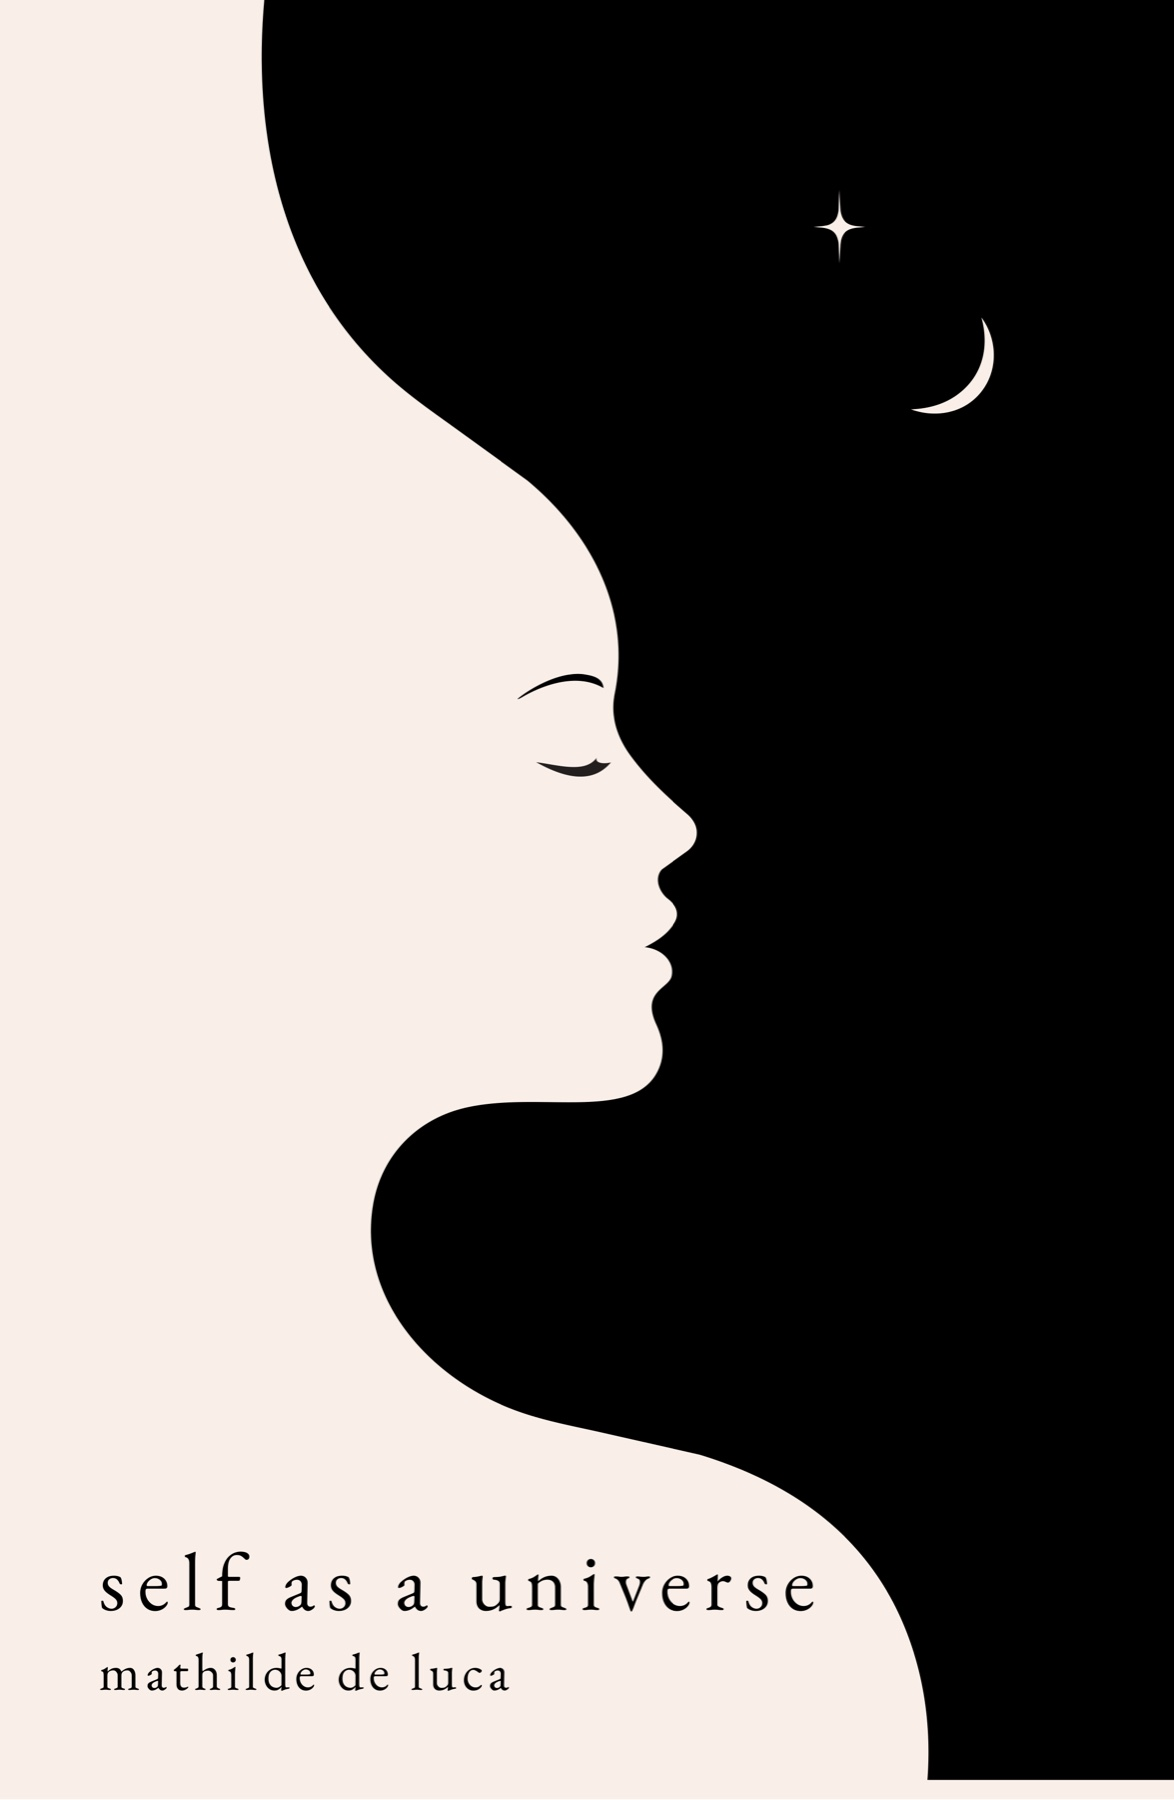
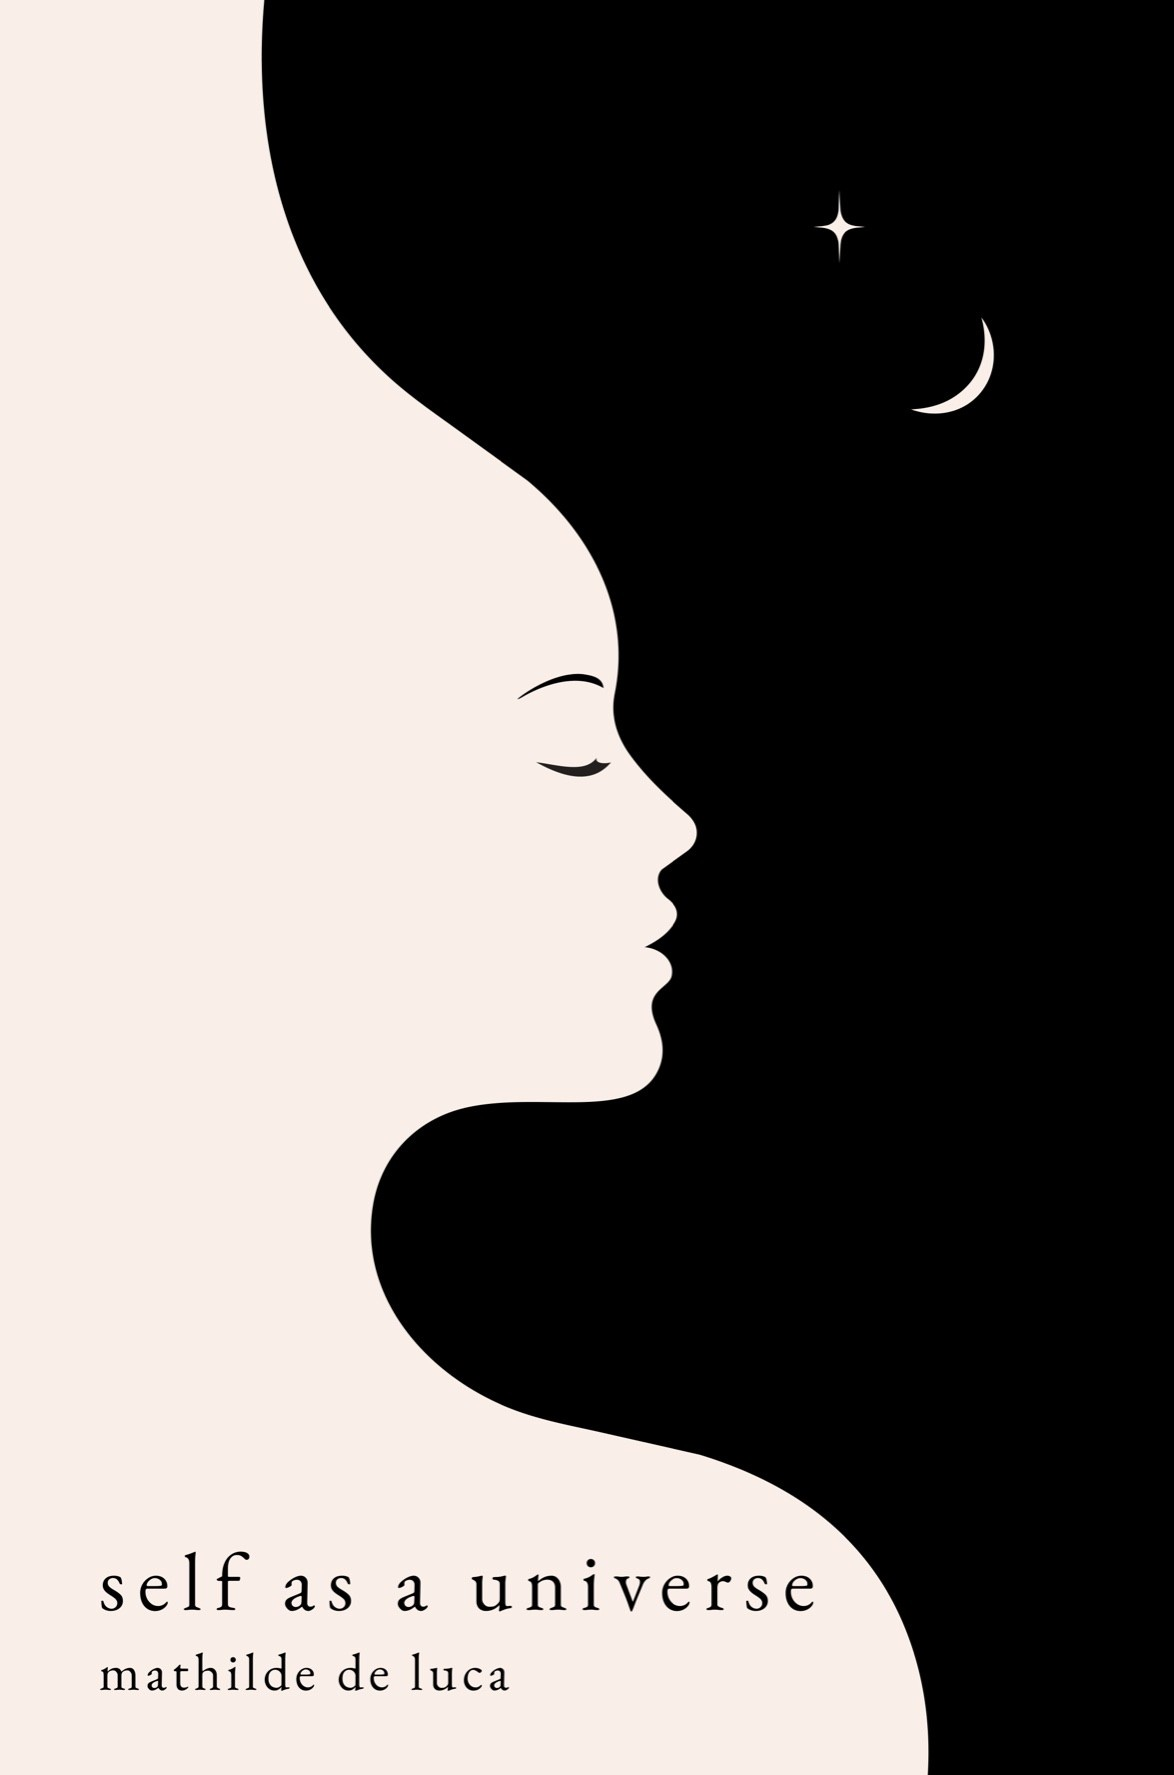
Corrections : menu (+), couverture (bande beige retiree), cartes agrandies, textes podcast/offerings/ateliers/sessions reformules, lien Amazon sur le titre, photo mobile fluide

diff --git a/index.html b/index.html
@@ -72,7 +72,7 @@
       "name": "Inner Exploration",
       "author": { "@id": "#mathilde" },
       "inLanguage": "en",
-      "description": "A podcast for those who question, explore, and wonder about what it means to be human. Philosophy meets everyday life.",
+      "description": "Philosophy meets everyday life. Conversations and guided immersions on consciousness, conditioning, freedom and identity.",
       "url": "https://mathildedeluca.substack.com/podcast",
       "sameAs": [
         "https://open.spotify.com/show/0341kXHlxtj29iFHy69TCA",
@@ -114,7 +114,7 @@
   <a href="#podcast">Podcast</a>
   <a href="#rencontres">Offerings</a>
   <a href="#a-propos">About</a>
-  <button class="menu-btn" type="button" aria-label="More pages" aria-expanded="false" aria-controls="menu"><svg width="22" height="14" viewBox="0 0 22 14" fill="none" stroke="currentColor" stroke-width="1.4" stroke-linecap="round" aria-hidden="true"><path d="M1 1.5h20M1 7h20M1 12.5h20"/></svg></button>
+  <button class="menu-btn" type="button" aria-label="More" aria-expanded="false" aria-controls="menu">+</button>
   <div class="menu" id="menu">
     <a href="essays.html">All essays</a>
     <a href="poems.html">Poems</a>
@@ -134,7 +134,7 @@
   <!-- BOOK -->
   <section id="livre">
     <span class="label fade">The book</span>
-    <h2 class="big fade" translate="no">self as a universe</h2>
+    <h2 class="big fade" translate="no"><a href="https://a.co/d/0fFWXzAd" target="_blank" rel="noopener" class="title-link">self as a universe</a></h2>
     <p class="lead fade">What if the universe you've been searching for was already inside you?</p>
     <div class="bookphoto fade"><img src="images/self-as-a-universe-mathilde-de-luca.jpg" alt="Cover of self as a universe by Mathilde De Luca"></div>
     <p class="fade">A collection of poetry and reflections where the personal becomes universal, <em>self as a universe</em> explores identity, conditioning, consciousness, love, and the journey back to yourself.</p>
@@ -176,7 +176,7 @@
   <section id="podcast">
     <span class="label fade">Inner Exploration</span>
     <h2 class="big fade">The podcast</h2>
-    <p class="fade">A podcast for those who question, explore, and wonder about what it means to be human. Here, philosophy meets everyday life. Together we explore what we believe, how we love, what freedom really means, and who we are. Some episodes are reflections and others are immersions.</p>
+    <p class="fade">Here, philosophy meets everyday life. Together we explore what we believe, how we love, what freedom really means, and who we are. Some episodes are reflections, others are guided immersions.</p>
     <div class="btns fade">
       <a class="btn solid" href="https://open.spotify.com/show/0341kXHlxtj29iFHy69TCA?si=y1Ap1OS9QTCZC8z6Tt5Npw&utm_source=copy-link" target="_blank" rel="noopener"><svg class="ico" viewBox="0 0 24 24" width="18" height="18" fill="currentColor" aria-hidden="true"><path d="M12 0C5.4 0 0 5.4 0 12s5.4 12 12 12 12-5.4 12-12S18.66 0 12 0zm5.52 17.34c-.24.36-.66.48-1.02.24-2.82-1.74-6.36-2.1-10.56-1.14-.42.12-.78-.18-.9-.54-.12-.42.18-.78.54-.9 4.56-1.02 8.52-.6 11.64 1.32.42.18.48.66.3 1.02zm1.44-3.3c-.3.42-.84.6-1.26.3-3.24-1.98-8.16-2.58-11.94-1.38-.48.12-1.02-.12-1.14-.6-.12-.48.12-1.02.6-1.14 4.38-1.32 9.78-.66 13.5 1.62.36.18.54.78.24 1.2zm.12-3.36C15.24 8.46 8.88 8.22 5.22 9.36c-.6.18-1.2-.18-1.38-.72-.18-.6.18-1.2.72-1.38 4.26-1.26 11.28-1.02 15.72 1.62.54.3.72 1.02.42 1.56-.3.42-1.02.6-1.56.3z"/></svg>Listen on Spotify</a>
     </div>
@@ -195,14 +195,14 @@
   <section id="rencontres">
     <span class="label fade">In person</span>
     <h2 class="big fade">Offerings</h2>
-    <p class="fade">A few ways we can meet, think, write, and explore together.</p>
+    <p class="fade">Different ways to meet, think, write, and explore together.</p>
 
     <ul class="rows fade">
       <li><div class="k">Book Readings</div><p>Readings from <em>self as a universe</em>, followed by open conversations on its themes.</p></li>
       <li><div class="k">Philosophy Talks</div><p>Talks on consciousness, conditioning, freedom, and the invisible structures that shape our lives, followed by philosophical conversations and Q&amp;A.</p></li>
-      <li><div class="k">Writing Workshops</div><p>Writing workshops for self-inquiry, creativity, and inner exploration through intuitive writing, reflective prompts, and guided exercises.</p></li>
+      <li><div class="k">Writing Workshops</div><p>Writing workshops for self-inquiry and creative expression, through intuitive writing, reflective prompts, and guided exercises.</p></li>
       <li><div class="k">Maison Amour Collective</div><p>Creative gatherings with different themes: art &amp; jam, writers’ dinners, ecstatic dance… Born on the island of Koh Phangan, now hosted around the world.<br><a class="textlink" href="https://www.instagram.com/maisonamour.collective" target="_blank" rel="noopener">@maisonamour.collective</a></p></li>
-      <li><div class="k">1:1 Sessions</div><p>One-to-one sessions to explore your inner world, uncover unconscious patterns, and reconnect with clarity and authenticity.<br><a class="textlink" href="https://wa.me/33620416001" target="_blank" rel="noopener">Message me on WhatsApp</a></p></li>
+      <li><div class="k">1:1 Sessions</div><p>One-to-one sessions to explore your inner world, uncover unconscious patterns, and find your way back to yourself.<br><a class="textlink" href="https://wa.me/33620416001" target="_blank" rel="noopener">Message me on WhatsApp</a></p></li>
     </ul>
 
     <p class="fade" style="margin-top:56px">Questions, collaborations, or speaking inquiries? I'd love to hear from you.</p>
@@ -262,6 +262,26 @@
     function update() {
       el.style.setProperty('--cy', (innerHeight / 2 - el.getBoundingClientRect().top) + 'px');
       queued = false;
+    }
+    addEventListener('scroll', function () { if (!queued) { queued = true; requestAnimationFrame(update); } }, { passive: true });
+    addEventListener('resize', update);
+    update();
+  })();
+  // Sur telephone, la photo de la section « About » descend avec le texte au lieu de rester figee
+  (function () {
+    const about = document.querySelector('.about'), photo = document.querySelector('.about .photo');
+    if (!about || !photo) return;
+    let queued = false;
+    function update() {
+      queued = false;
+      if (innerWidth > 760) { photo.style.transform = ''; return; }
+      const rect = about.getBoundingClientRect();
+      const maxOffset = Math.max(0, about.offsetHeight - photo.offsetHeight);
+      const total = rect.height + innerHeight;
+      const traveled = innerHeight - rect.top;
+      let progress = traveled / total;
+      progress = Math.min(1, Math.max(0, progress));
+      photo.style.transform = 'translateY(' + Math.round(progress * maxOffset) + 'px)';
     }
     addEventListener('scroll', function () { if (!queued) { queued = true; requestAnimationFrame(update); } }, { passive: true });
     addEventListener('resize', update);

diff --git a/style.css b/style.css
@@ -57,6 +57,8 @@
   section { padding: 96px 0; text-align: center; }
   #livre { padding-top: 56px; }
   h2 { font-weight: 400; font-style: italic; font-size: 1.9rem; margin-bottom: 24px; line-height: 1.25; }
+  .title-link { color: inherit; text-decoration: none; }
+  .title-link:hover, .title-link:focus-visible { color: var(--muted); outline: none; }
   h2.big { font-size: 2.4rem; }
   p + p { margin-top: 1.2em; }
   .label { font-size: 12px; letter-spacing: .35em; text-transform: uppercase; color: var(--muted); margin-bottom: 20px; display: block; }
@@ -82,7 +84,7 @@
   }
 
   /* Menu déroulant (trois petites barres) */
-  .menu-btn { background: none; border: 0; cursor: pointer; padding: 4px 2px; line-height: 0; color: var(--muted); transition: color .3s; }
+  .menu-btn { background: none; border: 0; cursor: pointer; padding: 0 2px; line-height: inherit; font-family: var(--serif); font-size: 15px; font-style: italic; font-weight: 500; color: var(--muted); transition: color .3s; }
   .menu-btn:hover, .menu-btn:focus-visible { color: var(--ink); outline: none; }
   .menu {
     display: none; position: absolute; top: 100%; right: max(16px, calc(50vw - 300px));
@@ -159,14 +161,14 @@
   .about-text .three { text-align: left; }
   @media (max-width: 760px) {
     .about { grid-template-columns: 34% 1fr; gap: 22px; align-items: start; }
-    .about .photo { border-radius: 8px; position: sticky; top: 80px; }
+    .about .photo { border-radius: 8px; will-change: transform; }
     .about-text { font-size: .8em; line-height: 1.6; }
     .about-text p { text-align: left; hyphens: manual; }
     .about-text .label { margin-bottom: 14px; }
   }
 
   /* Cartes (format jeu de cartes 5:7, comme un poker 63 x 88 mm) */
-  .cards { display: flex; justify-content: center; padding: 56px 0 40px; --cw: clamp(62px, 17vw, 128px); }
+  .cards { display: flex; justify-content: center; padding: 56px 0 40px; --cw: clamp(72px, 19vw, 148px); }
   .card {
     position: relative; display: flex; align-items: center; justify-content: center;
     width: var(--cw); aspect-ratio: 5 / 7; flex: none;
@@ -175,7 +177,7 @@
     border: 1px solid #d4d4d4;
     border-radius: calc(var(--cw) * 0.07);
     box-shadow: 0 10px 26px rgba(0,0,0,.24), 0 2px 5px rgba(0,0,0,.14);
-    text-decoration: none; font-style: italic; font-size: calc(var(--cw) * 0.175);
+    text-decoration: none; font-style: italic; font-size: calc(var(--cw) * 0.205);
     transform: rotate(var(--r, 0deg)) translateY(var(--y, 0));
     transition: transform .5s cubic-bezier(.2,.8,.2,1), box-shadow .5s ease;
   }

diff --git a/definitions.html b/definitions.html
@@ -51,7 +51,7 @@
   <a href="index.html#podcast">Podcast</a>
   <a href="index.html#rencontres">Offerings</a>
   <a href="index.html#a-propos">About</a>
-  <button class="menu-btn" type="button" aria-label="More pages" aria-expanded="false" aria-controls="menu"><svg width="22" height="14" viewBox="0 0 22 14" fill="none" stroke="currentColor" stroke-width="1.4" stroke-linecap="round" aria-hidden="true"><path d="M1 1.5h20M1 7h20M1 12.5h20"/></svg></button>
+  <button class="menu-btn" type="button" aria-label="More" aria-expanded="false" aria-controls="menu">+</button>
   <div class="menu" id="menu">
     <a href="essays.html">All essays</a>
     <a href="poems.html">Poems</a>

diff --git a/essays.html b/essays.html
@@ -86,7 +86,7 @@
   <a href="index.html#podcast">Podcast</a>
   <a href="index.html#rencontres">Offerings</a>
   <a href="index.html#a-propos">About</a>
-  <button class="menu-btn" type="button" aria-label="More pages" aria-expanded="false" aria-controls="menu"><svg width="22" height="14" viewBox="0 0 22 14" fill="none" stroke="currentColor" stroke-width="1.4" stroke-linecap="round" aria-hidden="true"><path d="M1 1.5h20M1 7h20M1 12.5h20"/></svg></button>
+  <button class="menu-btn" type="button" aria-label="More" aria-expanded="false" aria-controls="menu">+</button>
   <div class="menu" id="menu">
     <a href="essays.html">All essays</a>
     <a href="poems.html">Poems</a>

diff --git a/poems.html b/poems.html
@@ -51,7 +51,7 @@
   <a href="index.html#podcast">Podcast</a>
   <a href="index.html#rencontres">Offerings</a>
   <a href="index.html#a-propos">About</a>
-  <button class="menu-btn" type="button" aria-label="More pages" aria-expanded="false" aria-controls="menu"><svg width="22" height="14" viewBox="0 0 22 14" fill="none" stroke="currentColor" stroke-width="1.4" stroke-linecap="round" aria-hidden="true"><path d="M1 1.5h20M1 7h20M1 12.5h20"/></svg></button>
+  <button class="menu-btn" type="button" aria-label="More" aria-expanded="false" aria-controls="menu">+</button>
   <div class="menu" id="menu">
     <a href="essays.html">All essays</a>
     <a href="poems.html">Poems</a>
